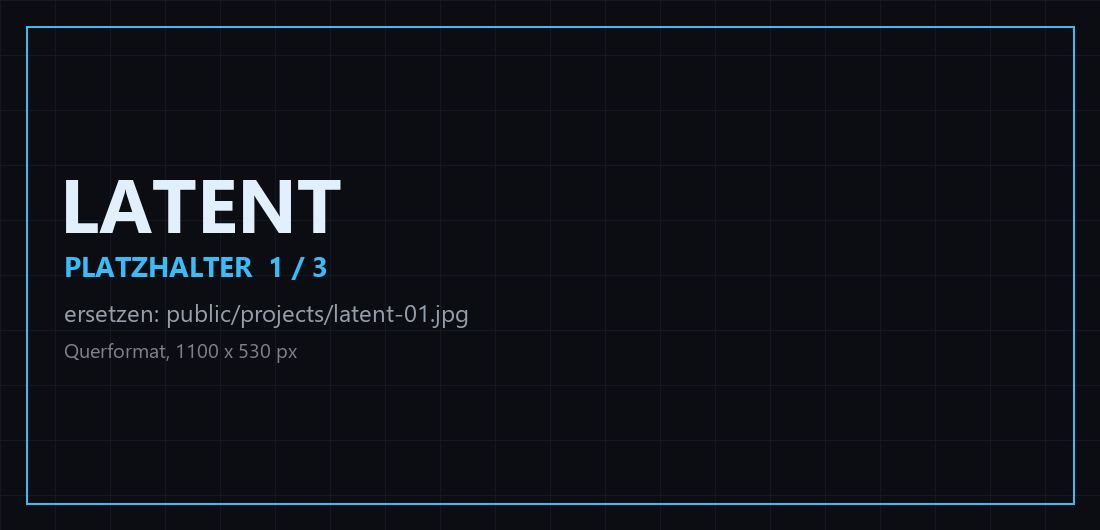
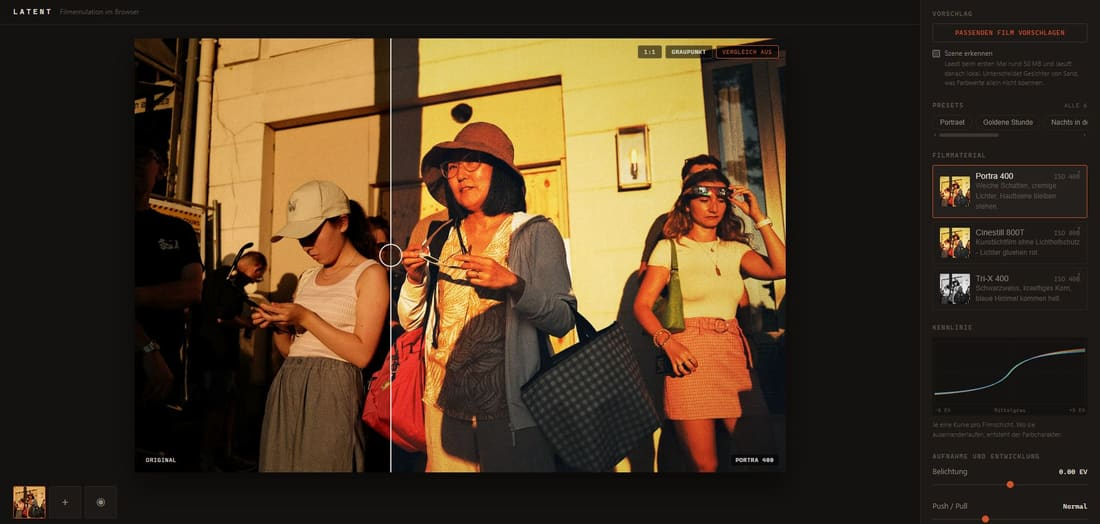
Rev 13: Tempo an einem Ort, Werkstatt ausgehaengt, Schiefer statt Weiss
## lib/scene/pacing.ts

Die Zahlen, die bestimmen wie lang sich die Seite anfuehlt, lagen
verstreut: eine in einer Tailwind-Klasse (min-h-[130vh]), eine in einem
Template-String in Showcase, zwei mitten im rAF-Loop des ScrollDriver.
Genau deshalb waren sie nicht zu finden, wenn man sie suchte. Jetzt an
einem Ort, kommentiert, ohne Abhaengigkeiten - das Modul wird sowohl vom
DOM als auch von der Szene geladen.

Der Kommentar dort trennt zwei Dinge, die nichts miteinander zu tun
haben und beide "Uebergang" heissen: wie weit man scrollen muss
(TUNNEL_VH_PER_PROJECT, TUNNEL_VH_LEAD, CHAPTER_VH) und wie lange zwei
Hintergruende ineinander stehen (SCENE_BLEND, SCENE_WINDOW).

Alle fuenf gekuerzt: 72 -> 52 vh je Projekt, 60 -> 40 Vor- und Nachlauf,
130 -> 105 vh je Kapitel, Daempfung 6 -> 9, Anspruchsfenster 0.7 -> 0.5.
Zusammen 14.4 -> 11.2 Bildschirme.

## Werkstatt ausgehaengt

Nicht geloescht: die Komponenten liegen weiter unter
components/sections/Workshop.tsx und sind mit einem Import und einer
Zeile in page.tsx wieder da. Ohne den Import landen sie in keinem
Bundle. First Load JS faellt dadurch von 190 auf 181 kB, die Seitengroesse
von 30.7 auf 21.9 kB.

## Der helle Abschnitt war immer noch zu hell

L* 94 -> L* 83 (Rev 12) -> jetzt L* 72. Immer noch 9.2:1 gegen den
Seitengrund, also eine voellig eindeutige Zaesur - aber es liest sich
jetzt als anderes Material statt als Lichtquelle.

Die Vordergruende sind zum zweiten Mal mitgewandert, weil auf dem
[…]

diff --git a/content/projects.ts b/content/projects.ts
@@ -141,8 +141,6 @@ export const PROJECTS: Project[] = [
       repo: "https://github.com/MarcelFelder-git/Latent",
     },
     media: {
-      // TODO(Marcel): Platzhalter durch echte Screenshots ersetzen.
-      // Gleiche Dateinamen, dann ist hier nichts zu ändern.
       image: "/projects/latent-01.jpg",
       stills: ["/projects/latent-02.jpg", "/projects/latent-03.jpg"],
       orientation: "landscape",
@@ -150,9 +148,45 @@ export const PROJECTS: Project[] = [
     },
     aiAssisted: true,
   },
+
+  {
+    id: "aufmischen",
+    index: "04",
+    title: "AUFMISCHEN",
+    tagline:
+      "Portfolio-Engine für einen Musikproduzenten, Inhalte pflegt er selbst.",
+    body: "Auftragsarbeit für einen Produzenten aus Frankfurt/Berlin. Headless-Architektur: die Inhalte — Musik, Audioreferenzen, Tourdaten, Biografie — liegen in einem CMS, das Frontend liefert sie schnell aus.",
+    detail:
+      "Sanity als Headless CMS trennt Redaktion und Darstellung: er ändert Tourdaten, ohne dass ein Deploy nötig ist.",
+    stack: [
+      "Next.js",
+      "Sanity CMS",
+      "Framer Motion",
+      "React Hook Form + Zod",
+      "CSS Modules",
+      "Vercel",
+    ],
+    scope: "Auftragsarbeit · Headless CMS",
+    year: "2026",
+    links: {
+      live: "https://next-aufmischen-portfolio-v03.vercel.app",
+      repo: "https://github.com/MarcelFelder-git/next-aufmischen_portfolio_v02",
+    },
+    media: {
+      image: "/projects/aufmischen-01.jpg",
+      stills: [
+        "/projects/aufmischen-02.jpg",
+        "/projects/aufmischen-03.jpg",
+        "/projects/aufmischen-04.jpg",
+        "/projects/aufmischen-05.jpg",
+      ],
+      orientation: "landscape",
+      alt: "AUFMISCHEN Artist-Portfolio, Startansicht",
+    },
+  },
   {
     id: "nxt-hud",
-    index: "04",
+    index: "05",
     title: "NXT VideoGame HUD",
     tagline:
       "Spiele suchen, filtern, merken — plus ein Minigame, das dein Wissen testet.",
@@ -183,35 +217,6 @@ export const PROJECTS: Project[] = [
     },
   },
   {
-    id: "aufmischen",
-    index: "05",
-    title: "AUFMISCHEN",
-    tagline:
-      "Portfolio-Engine für einen Musikproduzenten, Inhalte pflegt er selbst.",
-    body: "Auftragsarbeit für einen Produzenten aus Frankfurt/Berlin. Headless-Architektur: die Inhalte — Musik, Audioreferenzen, Tourdaten, Biografie — liegen in einem CMS, das Frontend liefert sie schnell aus.",
-    detail:
-      "Sanity als Headless CMS trennt Redaktion und Darstellung: er ändert Tourdaten, ohne dass ein Deploy nötig ist.",
-    stack: [
-      "Next.js",
-      "Sanity CMS",
-      "Framer Motion",
-      "React Hook Form + Zod",
-      "CSS Modules",
-      "Vercel",
-    ],
-    scope: "Auftragsarbeit · Headless CMS",
-    year: "2026",
-    links: {
-      live: "https://next-aufmischen-portfolio-v03.vercel.app",
-      repo: "https://github.com/MarcelFelder-git/next-aufmischen_portfolio_v02",
-    },
-    media: {
-      image: "/projects/aufmischen.jpg",
-      orientation: "landscape",
-      alt: "AUFMISCHEN Artist-Portfolio, Startansicht",
-    },
-  },
-  {
     id: "art-robbery",
     index: "06",
     title: "Art Robbery",
@@ -220,13 +225,7 @@ export const PROJECTS: Project[] = [
     body: "Du bist Meisterdieb und hast es auf die berühmtesten Gemälde der Welt abgesehen. In jedem Museum hängt neben dem Original eine Fälschung — richtig wählen, der Security ausweichen, rauskommen.",
     detail:
       "Spielzustand über useContext statt über eine State-Library: bei dieser Größe ist eine zusätzliche Abhängigkeit nur Ballast.",
-    stack: [
-      "React",
-      "JavaScript",
-      "Express",
-      "TanStack Query",
-      "CSS Modules",
-    ],
+    stack: ["React", "JavaScript", "Express", "TanStack Query", "CSS Modules"],
     scope: "Frontend · Spiellogik",
     year: "2025",
     links: {
@@ -235,10 +234,7 @@ export const PROJECTS: Project[] = [
     },
     media: {
       image: "/projects/art-robbery-01.jpg",
-      stills: [
-        "/projects/art-robbery-02.jpg",
-        "/projects/art-robbery-03.jpg",
-      ],
+      stills: ["/projects/art-robbery-02.jpg", "/projects/art-robbery-03.jpg"],
       orientation: "landscape",
       video: {
         mp4: "/projects/art-robbery.mp4",

diff --git a/lib/scene/pacing.ts b/lib/scene/pacing.ts
@@ -1,0 +1,85 @@
+/**
+ * Das Tempo der Seite — alle Stellschrauben an einem Ort.
+ *
+ * Diese Zahlen lagen vorher verstreut: eine in einer Tailwind-Klasse
+ * (`min-h-[130vh]`), eine in einem Template-String in `Showcase`, zwei
+ * mitten im rAF-Loop des `ScrollDriver`. Zusammen bestimmen sie, wie lang
+ * sich die Seite anfuehlt — und genau deshalb waren sie nicht zu finden,
+ * wenn man sie suchte.
+ *
+ * Hier stehen nur Zahlen, keine Abhaengigkeiten: dieses Modul wird sowohl
+ * vom DOM (Hauptbundle) als auch von der Szene geladen, und ein einziger
+ * Import aus three wuerde die gesamte 3D-Kette ins Hauptbundle ziehen.
+ *
+ * ## Was welche Zahl tut
+ *
+ * Es gibt zwei voellig verschiedene Arten von "Uebergang", und sie haben
+ * nichts miteinander zu tun:
+ *
+ *   1. WIE WEIT man scrollen muss, bis der naechste Abschnitt dran ist.
+ *      Das sind `TUNNEL_VH_PER_PROJECT`, `TUNNEL_VH_LEAD` und
+ *      `CHAPTER_VH`. Sie bestimmen die Hoehe der Abschnitte im DOM. Kuerzer
+ *      heisst: dasselbe passiert auf weniger Strecke, die Fahrt wird
+ *      schneller. Die Kamera haengt am Fortschritt, nicht an Pixeln — das
+ *      Bild wird also nicht abgeschnitten, es laeuft nur zuegiger.
+ *
+ *   2. WIE LANGE zwei Hintergruende ineinander stehen, waehrend man die
+ *      Grenze passiert. Das sind `SCENE_BLEND` und `SCENE_WINDOW`. Kuerzer
+ *      heisst: die Ueberblendung ist schneller vorbei, die Szenen stehen
+ *      frueher wieder allein.
+ *
+ * Wer die Seite kuerzer haben will, dreht an (1). Wer die Ueberblendungen
+ * knackiger haben will, an (2).
+ */
+
+/* --- 1. Scrollstrecke ---------------------------------------------- */
+
+/**
+ * Bildschirmhoehen, die jedes Projekt im Tunnel bekommt.
+ *
+ * Das ist der groesste einzelne Hebel auf die Laenge der Seite: bei sechs
+ * Projekten kostet jede Einheit hier sechs Einheiten Gesamtlaenge.
+ * Darunter wird die Fahrt hektisch — man kommt an einer Tafel an, bevor
+ * man die vorige gelesen hat.
+ */
+export const TUNNEL_VH_PER_PROJECT = 52;
+
+/** Vor- und Nachlauf des Tunnels: Einfahrt und Ausfahrt. */
+export const TUNNEL_VH_LEAD = 40;
+
+/**
+ * Hoehe eines Disziplin-Kapitels.
+ *
+ * Muss deutlich ueber 100 liegen: der Textblock klebt waehrend der Fahrt
+ * (sticky), und bei genau einer Bildschirmhoehe gaebe es keinen Weg, den
+ * er kleben koennte — der Uebergang waere ein Sprung statt einer
+ * Uebergabe.
+ */
+export const CHAPTER_VH = 105;
+
+/* --- 2. Ueberblendung ---------------------------------------------- */
+
+/**
+ * Wie schnell die Szenengewichte auf ihr Ziel zulaufen.
+ *
+ * Zeitkonstante einer exponentiellen Annaeherung: nach 1/LAMBDA Sekunden
+ * ist rund zwei Drittel des Weges zurueckgelegt. Bei 9 also nach gut
+ * einer Zehntelsekunde.
+ *
+ * Groesser = kuerzer. Ueber etwa 14 verschwindet die Daempfung praktisch,
+ * und dann klebt das Bild wieder direkt am Scrollwert — ein Sprung in der
+ * Scrollposition (Anker-Link, Pos1-Taste) kommt dann als Schnitt an
+ * statt als Bewegung. Genau das war frueher das Problem.
+ */
+export const SCENE_BLEND = 9;
+
+/**
+ * Breite des Fensters, in dem ein Abschnitt Anspruch auf den Hintergrund
+ * erhebt, in Bildschirmhoehen.
+ *
+ * Kleiner = kuerzer: die Abschnitte ueberlappen sich weniger lang, die
+ * Uebergabe faellt knapper aus. Unter etwa 0.35 entstehen Luecken, in
+ * denen kein Abschnitt Anspruch hat — dann bleibt das letzte Bild stehen,
+ * bis der naechste greift, und das sieht aus wie ein Haenger.
+ */
+export const SCENE_WINDOW = 0.5;

diff --git a/app/globals.css b/app/globals.css
@@ -97,30 +97,32 @@
    Sprung zurueck nach oben ist genau am Seitenende am wichtigsten. */
 [data-tone="light"],
 .at-outro [data-chrome="topbar"] {
-  /* Gedaempftes Hellgrau statt Weiss.
-     Die erste Fassung stand bei #eceef2, also L* 94. Nach zwoelf
+  /* Schiefergrau statt Weiss.
+     Die erste Fassung stand bei #eceef2, also L* 94. Nach einem Dutzend
      Bildschirmen auf fast schwarzem Grund ist das keine Trennung mehr,
-     sondern ein Blitz - die Pupille steht auf dunkel und bekommt eine
-     volle Bildschirmflaeche Licht. L* 83 setzt sich vom Grund genauso
-     eindeutig ab (12.6:1 gegen #08090e), tut aber nicht weh.
-     Die dunkleren Toene darunter sind kein Zufall: auf dem
-     abgesenkten Grund fallen die alten Werte unter die AA-Schwelle,
-     Akzent und Faint waeren bei 3.8 gelandet. Gemessen in
-     scripts/check-contrast.mjs. */
-  --color-paper: #c9ced7;
-  --color-surface: #dfe3e9;
-  --color-raise: #d6dae2;
-  --color-rule: #9aa1ad;
-  --color-rule-soft: #b4bac4;
+     sondern ein Blitz: die Pupille steht auf dunkel und bekommt eine
+     volle Bildschirmflaeche Licht. Ueber L* 83 sind wir bei L* 72
+     gelandet - das ist immer noch 9.2:1 gegen den Seitengrund, also eine
+     voellig eindeutige Zaesur, aber es liest sich als anderes Material
+     statt als Lichtquelle.
+     Die Vordergruende sind zweimal mitgewandert und kein Zufall: auf dem
+     abgesenkten Grund faellt jeder Wert der dunklen Seite unter die
+     AA-Schwelle. Gemessen in scripts/check-contrast.mjs; schwaechste
+     Paarung 4.60. */
+  --color-paper: #aab1bd;
+  --color-surface: #c2c8d1;
+  --color-raise: #b8bfca;
+  --color-rule: #7c838f;
+  --color-rule-soft: #969dab;
 
-  --color-ink: #0b0d12;
-  --color-mute: #41464e;
-  --color-faint: #4d525b;
+  --color-ink: #080a0e;
+  --color-mute: #33383f;
+  --color-faint: #3c414a;
 
-  --color-accent: #075985;
-  --color-accent-alt: #5b21b6;
+  --color-accent: #03476b;
+  --color-accent-alt: #4c1d95;
 
-  --ground-rgb: 201, 206, 215;
+  --ground-rgb: 170, 177, 189;
 
   /* Ohne diese Zeile bleibt der Text weiss.
      `color` steht auf dem body und wird als FERTIG BERECHNETER Wert

diff --git a/components/sections/Showcase.tsx b/components/sections/Showcase.tsx
@@ -11,6 +11,7 @@ import { LivePreview } from "@/components/projects/LivePreview";
 import { usePrefersReducedMotion } from "@/hooks/usePrefersReducedMotion";
 import { sceneState } from "@/lib/scene/state";
 import { activeStation, stationNearness } from "@/lib/scene/tunnel";
+import { TUNNEL_VH_LEAD, TUNNEL_VH_PER_PROJECT } from "@/lib/scene/pacing";
 import { EASE_OUT } from "@/lib/motion";
 import { cn } from "@/lib/utils";
 
@@ -136,16 +137,11 @@ function TunnelRide({ onPreview }: { onPreview: (p: Project) => void }) {
     <div
       ref={ref}
       data-tunnel
-      // Knapp drei Viertel einer Bildschirmhoehe pro Projekt plus Vor-
-      // und Nachlauf.
-      //
-      // Vorher war es eine volle Hoehe je Projekt. Mit fuenf Projekten
-      // waren das 580vh, mit sechs 680 - fast sieben Bildschirme allein
-      // fuer die Fahrt, und der Weg zwischen zwei Geraeten wurde zur
-      // Geduldsprobe. Das Tempo der Fahrt selbst bleibt gleich, weil
-      // die Kamera am Fortschritt haengt und nicht an Pixeln: es wird
-      // nur weniger gescrollt fuer dieselbe Strecke.
-      style={{ height: `${PROJECTS.length * 72 + 60}vh` }}
+      // Beide Zahlen stehen in lib/scene/pacing.ts - zusammen mit den
+      // uebrigen Stellschrauben fuer das Tempo der Seite.
+      style={{
+        height: `${PROJECTS.length * TUNNEL_VH_PER_PROJECT + TUNNEL_VH_LEAD}vh`,
+      }}
       className="relative"
     >
       {/* Der Text steht immer auf der Gegenseite der aktuellen Tafel.

diff --git a/components/canvas/ScrollDriver.tsx b/components/canvas/ScrollDriver.tsx
@@ -3,6 +3,7 @@
 import { useEffect } from "react";
 import { SCENE_KEYS, damp, sceneState, type SceneKey } from "@/lib/scene/state";
 import { GROUND, blend } from "@/lib/scene/palette";
+import { SCENE_BLEND, SCENE_WINDOW } from "@/lib/scene/pacing";
 import { useViewportMode } from "@/lib/store/useViewportMode";
 import type { ViewportMode } from "@/types";
 
@@ -50,7 +51,7 @@ export function ScrollDriver() {
       // Dreiecksfenster um die Bildschirmmitte. Fuer sehr hohe
       // Abschnitte (Tunnel, Kapitel) greift zusaetzlich die
       // Ueberlappungsregel darunter.
-      const distance = Math.abs(centre - vh / 2) / (vh * 0.7);
+      const distance = Math.abs(centre - vh / 2) / (vh * SCENE_WINDOW);
       const window_ = Math.max(0, 1 - distance);
 
       // Anteil des Bildschirms, den der Abschnitt tatsaechlich bedeckt.
@@ -131,7 +132,7 @@ export function ScrollDriver() {
         sceneState.weights[key] = damp(
           sceneState.weights[key],
           sceneState.targets[key],
-          6,
+          SCENE_BLEND,
           dt,
         );
       }

diff --git a/app/page.tsx b/app/page.tsx
@@ -2,7 +2,6 @@ import { Hero } from "@/components/sections/Hero";
 import { Manifest } from "@/components/sections/Manifest";
 import { Showcase } from "@/components/sections/Showcase";
 import { ChapterSection } from "@/components/sections/ChapterSection";
-import { Workshop } from "@/components/sections/Workshop";
 import { StackBand } from "@/components/sections/StackBand";
 import { Vita, Outro } from "@/components/sections/Closing";
 import { ControlBar } from "@/components/audio/ControlBar";
@@ -51,7 +50,11 @@ export default function Home() {
         </ChapterSection>
       ))}
 
-      <Workshop />
+      {/* Die Werkstatt (Agent + Traeger-Solver) ist bewusst nicht mehr
+          eingehaengt. Die Komponenten liegen weiterhin unter
+          components/sections/Workshop.tsx und sind mit einem Import und
+          einer Zeile hier wieder da; ohne den Import landen sie in
+          keinem Bundle und kosten nichts. */}
       <Vita />
       <Outro />
     </main>

diff --git a/components/sections/ChapterSection.tsx b/components/sections/ChapterSection.tsx
@@ -5,6 +5,7 @@ import { motion } from "framer-motion";
 import { Counter, Reveal, SplitHeading } from "@/components/motion/primitives";
 import { EASE_OUT } from "@/lib/motion";
 import { cn } from "@/lib/utils";
+import { CHAPTER_VH } from "@/lib/scene/pacing";
 import type { Chapter } from "@/types";
 
 /**
@@ -29,7 +30,10 @@ export function ChapterSection({
   return (
     <section
       data-chapter={chapter.id}
-      className="relative min-h-[130vh] px-6 py-[10vh] sm:px-10 lg:px-16"
+      // Hoehe aus lib/scene/pacing.ts statt als Tailwind-Klasse: eine
+      // Zahl in einem Klassennamen laesst sich nicht zentral stellen.
+      style={{ minHeight: `${CHAPTER_VH}vh` }}
+      className="relative px-6 py-[10vh] sm:px-10 lg:px-16"
       aria-labelledby={`chapter-${chapter.id}`}
     >
       <div
